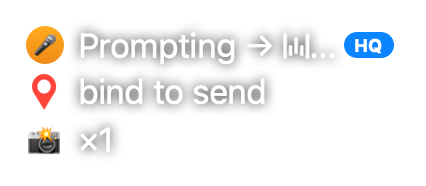
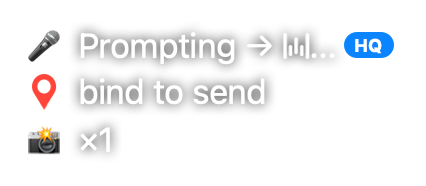
Bare device emoji breathes on the chip; spawned windows open in Addons' quadrants
- The orange disc round the microphone goes: just the device's emoji, pulsing.
- A spawned Terminal takes the first free quadrant of Victor Addons' default tile
  (halves of the visible frame, 2 pt outer margin) instead of a centred grid of
  its default size; other windows are not moved.

Changed region(s): [[0.061, 0.1344, 0.1526, 0.3495]]

diff --git a/Sources/WalkieTalkie/SpawnTerminal.swift b/Sources/WalkieTalkie/SpawnTerminal.swift
@@ -325,12 +325,17 @@ enum SpawnTerminal {
     /// **Where this window goes so that it covers as little as possible of what
     /// is already open.**
     ///
-    /// Each display is cut into a grid of cells the size of the window itself —
-    /// two columns of a 905pt terminal on a 1920pt monitor — and the grid is
-    /// centred in whatever the cells did not use, so a single-column screen does
-    /// not park the window against its left edge. Every cell on every display is
-    /// then scored by how many square points of *other* Terminal windows it would
-    /// sit on, and the first cell with the lowest score wins.
+    /// **Each display is cut into Victor Addons' four quadrants** (2026-10-04,
+    /// Victor: *"să le așezi în modul de tile pe care îl pune default Mac OS
+    /// addons. Nu rulat tile efectiv, dar … în colțuri"*) — the same rectangles
+    /// as its `TerminalTileLayout.quadrants`: halves of the visible frame, 2 pt
+    /// in from the outer edges, none between them, and the window takes the
+    /// quadrant's size. The other windows are not touched; ⌘⌃A is still the tile.
+    /// Until that day the cells were the size of the window itself, centred,
+    /// which put two default-size terminals side by side in the middle. Every
+    /// cell on every display is scored by how many square points of *other*
+    /// Terminal windows it would sit on, and the first cell with the lowest
+    /// score wins — TL, TR, BL, BR.
     ///
     /// **Scored rather than filtered**, so it degrades instead of failing: with
     /// every slot taken — six terminals across three monitors — the answer is the
@@ -347,13 +352,13 @@ enum SpawnTerminal {
     private static func slot(for window: Box, on screens: [Box], avoiding taken: [Box]) -> Box {
         var best: (cover: Int, box: Box)?
         for screen in screens {
-            let w = min(window.w, screen.w), h = min(window.h, screen.h)
-            guard w > 0, h > 0 else { continue }
-            let cols = max(1, screen.w / w), rows = max(1, screen.h / h)
-            let padX = (screen.w - cols * w) / 2, padY = (screen.h - rows * h) / 2
-            for row in 0..<rows {
-                for col in 0..<cols {
-                    let cell = Box(x: screen.x + padX + col * w, y: screen.y + padY + row * h, w: w, h: h)
+            let hw = screen.w / 2, hh = screen.h / 2
+            guard hw > quadrantMargin, hh > quadrantMargin else { continue }
+            for row in 0..<2 {
+                for col in 0..<2 {
+                    let x = col == 0 ? screen.x + quadrantMargin : screen.x + hw
+                    let y = row == 0 ? screen.y + quadrantMargin : screen.y + hh
+                    let cell = Box(x: x, y: y, w: hw - quadrantMargin, h: hh - quadrantMargin)
                     let cover = taken.reduce(0) { $0 + overlap(cell, $1) }
                     // Strictly less, so ties go to the earlier cell and the order
                     // of the grid is the order windows fill it in.
@@ -365,6 +370,10 @@ enum SpawnTerminal {
         }
         return best?.box ?? window
     }
+
+    /// Victor Addons' `TerminalTileLayout.margin` — kept equal by hand, the
+    /// two apps share no code for it.
+    private static let quadrantMargin = 2
 
     /// Square points two rectangles share, or zero.
     private static func overlap(_ a: Box, _ b: Box) -> Int {

diff --git a/Sources/WalkieTalkie/RelayWindow.swift b/Sources/WalkieTalkie/RelayWindow.swift
@@ -1047,13 +1047,13 @@ private let frontLabel = NSTextField(labelWithString: "")
         if listening { layoutContent() }
     }
 
-    /// **The microphone breathes in the orange disc, where the walkie did**
-    /// (2026-10-04, Victor: *"în loc de simbolul de Walkie Talkie care clipește
-    /// lent când dictez, pune simbolul microfonului folosit pentru dictare"*).
+    /// **The microphone breathes where the walkie did** (2026-10-04, Victor:
+    /// *"în loc de simbolul de Walkie Talkie care clipește lent când dictez, pune
+    /// simbolul microfonului folosit pentru dictare"*) — the bare emoji, no ring.
     /// The device left `micMark` for it — one place, in front of the word. An
     /// unknown device (empty) keeps the walkie.
     func setRecordDevice(_ glyph: String) {
-        recordDot.image = (glyph.isEmpty ? nil : Self.ringedDevice(glyph))
+        recordDot.image = (glyph.isEmpty ? nil : Self.deviceGlyph(glyph))
             ?? Self.walkieLiveGlyph ?? Self.pulseGlyph
     }
 
@@ -2592,26 +2592,15 @@ private let frontLabel = NSTextField(labelWithString: "")
     /// orange one looking like the same object.
     private static let walkieDeviceShare: CGFloat = 0.60
 
-    /// The device's emoji on `walkie-bound.png`'s orange disc — its two
-    /// oranges, top and bottom, sampled off the artwork — at the walkie's share
-    /// of it, so the ring is the same object whatever sits inside. One per
-    /// device, cached: there are five.
-    private static var ringedDevices: [String: NSImage] = [:]
-    private static func ringedDevice(_ glyph: String) -> NSImage {
-        if let cached = ringedDevices[glyph] { return cached }
-        let side = walkieInk
-        let image = NSImage(size: NSSize(width: side, height: side))
-        image.lockFocus()
-        NSGraphicsContext.current?.imageInterpolation = .high
-        NSGradient(starting: NSColor(srgbRed: 1, green: 172 / 255, blue: 31 / 255, alpha: 1),
-                   ending: NSColor(srgbRed: 240 / 255, green: 138 / 255, blue: 23 / 255, alpha: 1))?
-            .draw(in: NSBezierPath(ovalIn: NSRect(x: 0, y: 0, width: side, height: side)), angle: -90)
-        let inner = (side * walkieDeviceShare).rounded()
-        Glyphs.emoji(glyph, ink: inner).draw(in: NSRect(x: ((side - inner) / 2).rounded(),
-                                                       y: ((side - inner) / 2).rounded(),
-                                                       width: inner, height: inner))
-        image.unlockFocus()
-        ringedDevices[glyph] = image
+    /// The device's own emoji at the column's size, one per device — there are
+    /// five. **Bare, no disc** (2026-10-04, Victor, an hour after the disc:
+    /// *"nu trebuie înconjurat cu cerc portocaliu, ci doar … emoji-ul normal"*);
+    /// the breathing is what says the microphone is open.
+    private static var deviceGlyphs: [String: NSImage] = [:]
+    private static func deviceGlyph(_ glyph: String) -> NSImage {
+        if let cached = deviceGlyphs[glyph] { return cached }
+        let image = Glyphs.emoji(glyph, ink: iconInk)
+        deviceGlyphs[glyph] = image
         return image
     }
 

diff --git a/docs/overlay-states.html b/docs/overlay-states.html
@@ -706,9 +706,9 @@
       <section class="card" id="prompt-long">
         <header>
           <h3>A long transcript</h3>
-          <div class="tags"><span class="tag tag-panel" title="top-left of the screen, blurred, full opacity, ✕ on hover">panel</span><span class="tag">alpha 1.00</span><span class="tag">576×136 pt</span></div>
+          <div class="tags"><span class="tag tag-panel" title="top-left of the screen, blurred, full opacity, ✕ on hover">panel</span><span class="tag">alpha 1.00</span><span class="tag">640×136 pt</span></div>
         </header>
-        <div class="shot"><img src="states/prompt-long.png" width="576" height="136" style="opacity:1" alt="A long transcript"></div>
+        <div class="shot"><img src="states/prompt-long.png" width="640" height="136" style="opacity:1" alt="A long transcript"></div>
         <p class="when">A sentence that does not fit one line — the panel wraps and grows.</p>
         <p class="note">Width is capped at a third of the screen and the height at what is left of it; the transcript row is measured by asking the label, not by a parallel calculation, because any disagreement is a sentence that silently stops.</p>
         <code class="slug">prompt-long</code>
@@ -745,7 +745,7 @@
       </section>
     </div>
 <footer>
-  Generated from <code>OverlayStates.swift</code> · repo at 6bcbfdd · 04 Oct 2026 · built 04 Oct 2026, 10:03
+  Generated from <code>OverlayStates.swift</code> · repo at 6f4591c · 04 Oct 2026 · built 04 Oct 2026, 10:05
 </footer>
 <button class="toggle" onclick="document.body.classList.toggle('light')">Backdrop: dark / light</button>
 </body>

diff --git a/.claude/rules/overlay-chip.md b/.claude/rules/overlay-chip.md
@@ -209,12 +209,12 @@ yields to `--label`).
   `frameMs`/`drawMs`. The eraser's `eraseFront`/`eraseAfter` and the single `anchor` are gone.
   → journal: *Two lines that roll up (2026-09-28)*
 
-- **The microphone breathes in the orange disc, in front of the word** (2026-10-04, Victor: *"în loc
-  de simbolul de Walkie Talkie care clipește lent când dictez, pune simbolul microfonului"*, *"muta
-  simbolul microfonului in fata, inainte de Dictating/Prompting"*). `AppDelegate.pushMicMark` sends
-  the device to `RelayWindow.setRecordDevice` (its emoji on `walkie-bound.png`'s two oranges, at
-  `walkieDeviceShare`) and only `→ <logo>` to `setMicMark`; an unknown device keeps the walkie. The
-  row reads `🎤(disc) Prompting → ⬮...`. **The local model's mark is 💻 (the Apple mark until 2026-10-04) and wears a subscript `ᵥ`
+- **The microphone breathes in front of the word, where the walkie did** (2026-10-04, Victor: *"în
+  loc de simbolul de Walkie Talkie care clipește lent când dictez, pune simbolul microfonului"*, *"muta
+  simbolul microfonului in fata, inainte de Dictating/Prompting"*, then *"nu trebuie înconjurat cu
+  cerc portocaliu, ci doar … emoji-ul normal"* — **no disc**). `AppDelegate.pushMicMark` sends the
+  device to `RelayWindow.setRecordDevice` (the bare emoji at `iconInk`) and only `→ <logo>` to
+  `setMicMark`; an unknown device keeps the walkie. The row reads `🎤 Prompting → ⬮...`. **The local model's mark is 💻 (the Apple mark until 2026-10-04) and wears a subscript `ᵥ`
   (`Glyphs.loraMark`, U+1D65) when the weights are not the published Turbo** — drawn as a letter,
   filling with the bar (state `transcribing-lora`). The film row's icon is 🎞 (📹 until 2026-10-04).
 - **`Listening to 🎤 → ⬮...` since 2026-09-24** (the device moved into the disc on 2026-10-04, above) — the listening row names the recogniser too, after an

diff --git a/.claude/rules/spawn.md b/.claude/rules/spawn.md
@@ -284,11 +284,13 @@ recently bound terminals under the folders, `RebindHistory.openTerminals` — de
   the one case that still steals it — a Terminal launched from cold by `do script`. It gives back
   focus only; raised windows stay raised, which is why `activate` had to go rather than be undone.
   → journal: *Where a spawned window opens (2026-09-04)*
-- **A grid of the window's own size, scored not filtered.** Cells as big as the window Terminal
-  just made (two columns of a 905 pt terminal on a 1920 pt monitor), grid centred; every cell
-  scored by square points of *other* Terminal windows it would cover, first lowest wins. With every
-  slot taken — six terminals across three monitors — the answer is the least-covered cell, and
-  left-to-right lands a second spawn beside the first.
+- **Victor Addons' four quadrants, scored not filtered** (2026-10-04, *"să le așezi în modul de
+  tile pe care îl pune default Mac OS addons. Nu rulat tile efectiv, dar … în colțuri"*). Each
+  screen's visible frame is cut like `TerminalTileLayout.quadrants` (halves, `quadrantMargin` 2 pt
+  at the outer edges only) and the window **takes the quadrant's size**; the other windows are not
+  moved (⌘⌃A remains the tile). Every quadrant scored by square points of *other* Terminal windows
+  it would cover, first lowest wins, TL → TR → BL → BR, screens left to right. Until that day the
+  cells were the window's own default size, centred — two terminals side by side mid-screen.
   → journal: *Where a spawned window opens (2026-09-04)*
 - **Only Terminal's own windows are avoided, listed in the same `osascript` round trip that
   opened the window.** A second interpreter launch is a launch for nothing; asking the window
